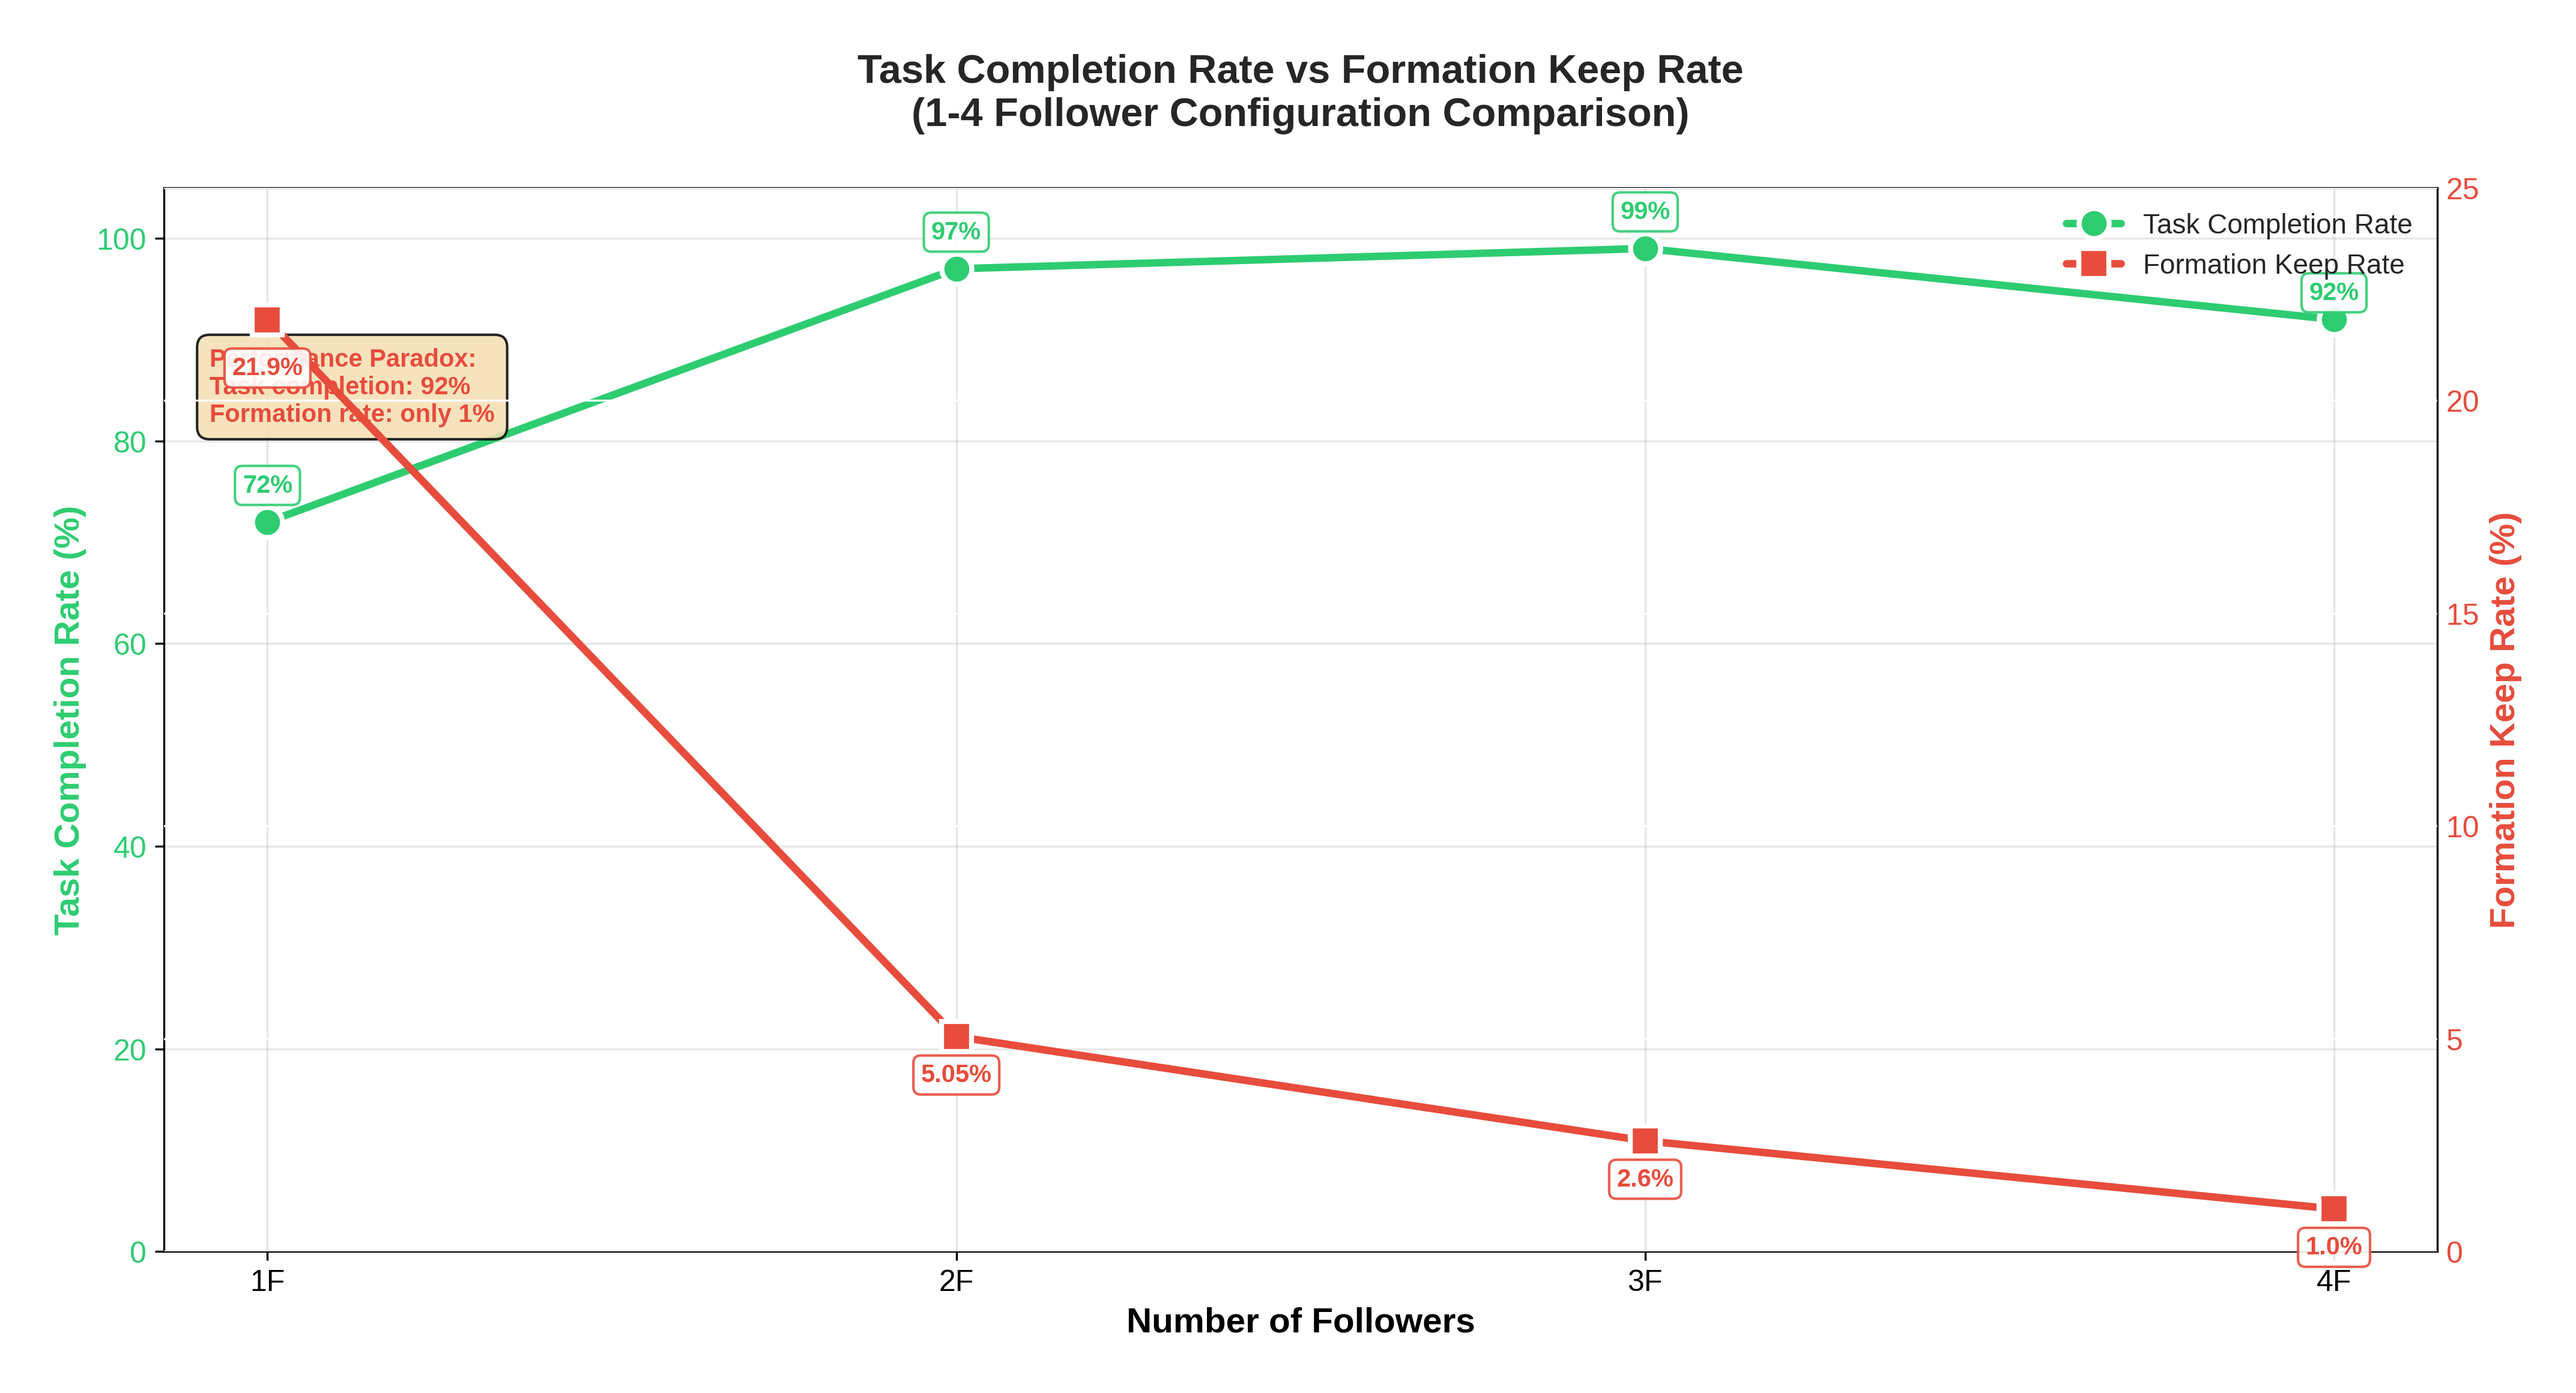
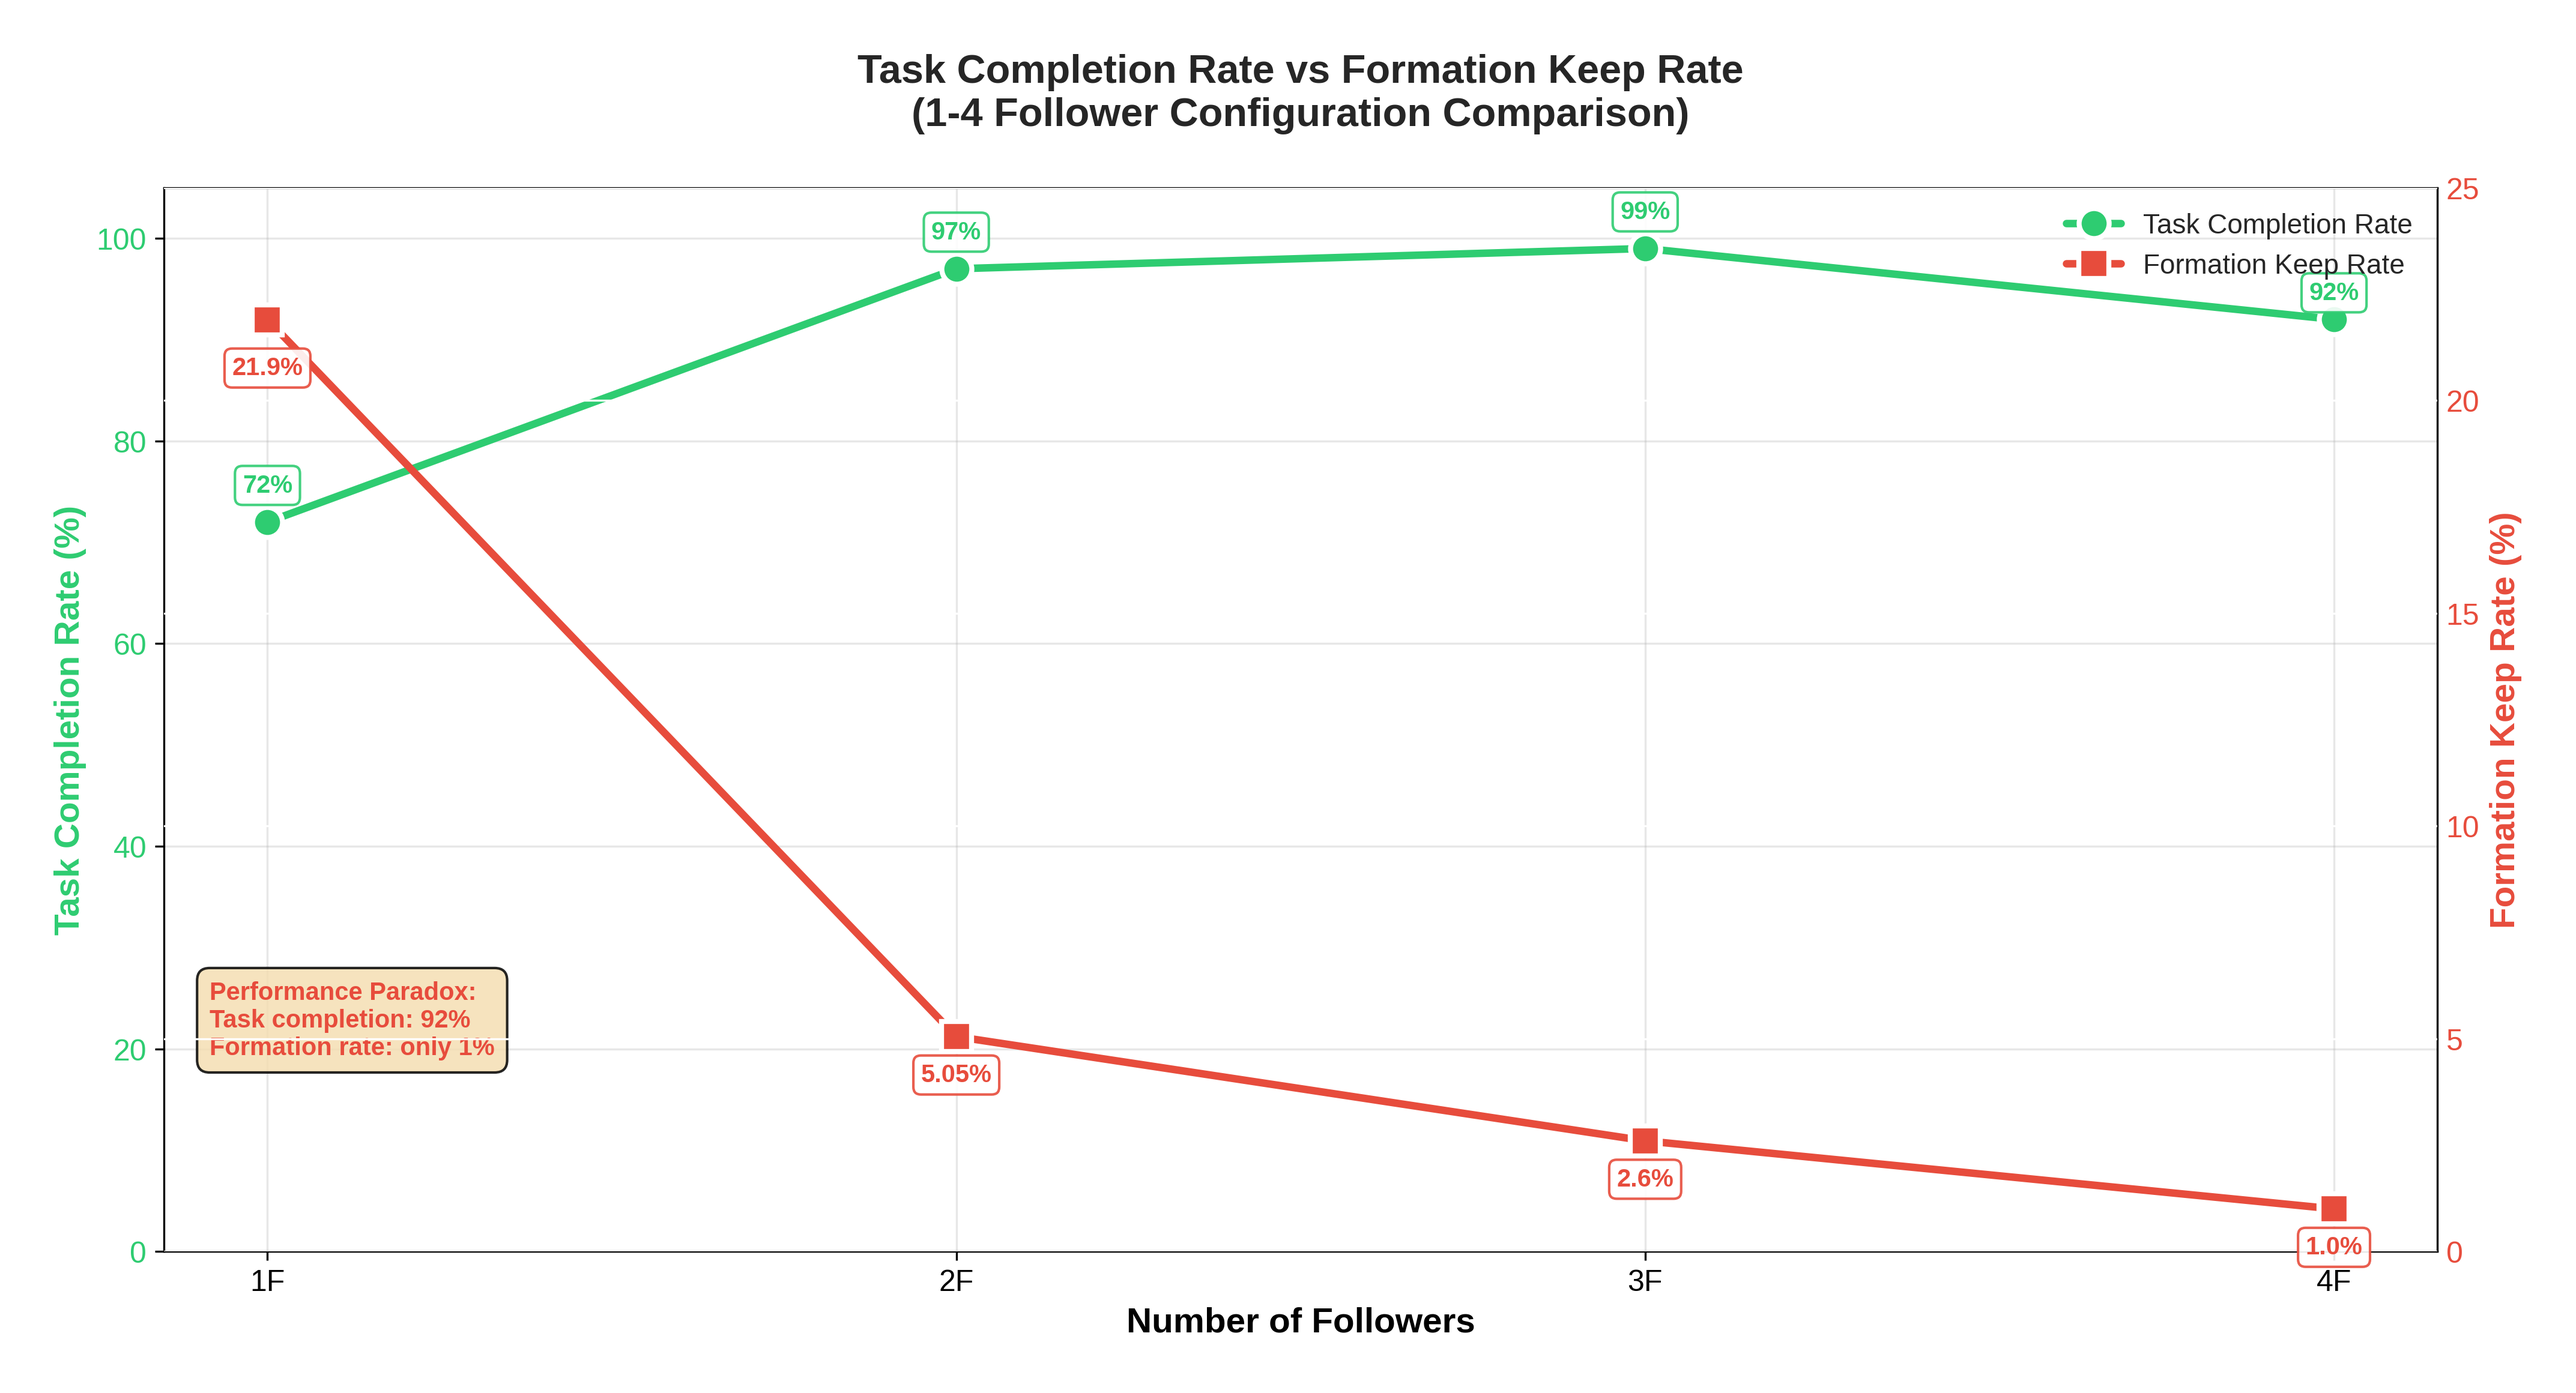
fix: 调整Performance Paradox文本框位置
将文本框从左上角(0.85)移至左下角(0.18)，避免与任务完成率曲线重叠

Changed region(s): [[0.0625, 0.2171, 0.2186, 0.3412], [0.0625, 0.6825, 0.2186, 0.7755]]

diff --git a/visualize_formation_rate.py b/visualize_formation_rate.py
@@ -102,12 +102,12 @@ ax1.set_axisbelow(True)
 ax1.set_xticks(follower_counts)
 ax1.set_xticklabels([f'{n}F' for n in follower_counts])
 
-# Add performance contradiction annotation - moved to avoid overlap with legend
-ax1.text(0.02, 0.85, 
+# Add performance contradiction annotation - moved to bottom left to avoid overlap with curves
+ax1.text(0.02, 0.18, 
          'Performance Paradox:\nTask completion: 92%\nFormation rate: only 1%',
          transform=ax1.transAxes,
          fontsize=10,
-         verticalalignment='top',
+         verticalalignment='bottom',
          bbox=dict(boxstyle='round,pad=0.5', facecolor='wheat', alpha=0.85),
          color='#e74c3c',
          fontweight='bold')
